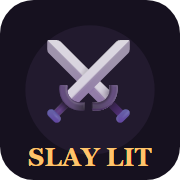
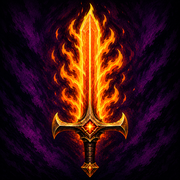
App-icoon: vlammend zwaard (PWA-icoonset 512/192/180 + maskable)
Nieuw start-/app-icoon uit Thomas' gekozen concept (het vlammend zwaard).
- icoon-512/192/180.png full-bleed + icoon-512-maskable.png (embleem op ~80%
  binnen de veilige zone, donkere rand doorlopend tot de kant).
- manifest: oude icoon.svg-placeholder (emoji + tekst) verwijderd zodat de
  PNG's authoritatief zijn en het oude icoon niet meer voorgaat.
- SW-cache v8 -> v9: de oude icon-cache wordt gewist (assets zijn cache-first).

NB: een al-geinstalleerde PWA toont het nieuwe home-screen-icoon pas na
opnieuw installeren (OS snapshot bij install); nieuwe installs meteen.

diff --git a/sw.js b/sw.js
@@ -2,7 +2,7 @@
    Code (html/js/css): network-first — online krijg je altijd de nieuwste versie.
    Art (assets/): cache-first — afbeeldingen veranderen niet, dus herbezoeken
    laden vrijwel instant. Offline werkt alles vanuit de cache. */
-const CACHE = 'slayit-v8'; /* v8: code-updates kwamen niet door op gsm → cache:'reload' + verse shell */
+const CACHE = 'slayit-v9'; /* v9: nieuw app-icoon (vlammend zwaard) → verse icon-cache */
 const BESTANDEN = [
   '.',
   'index.html',
